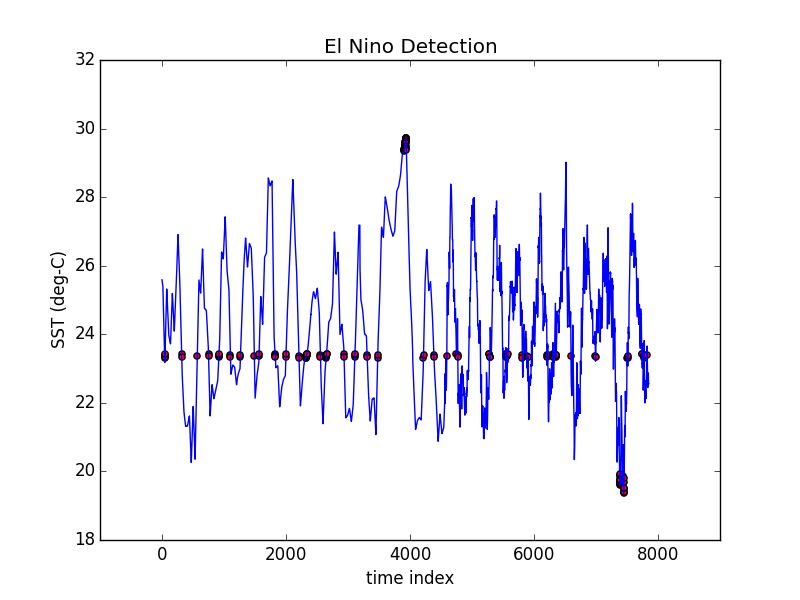
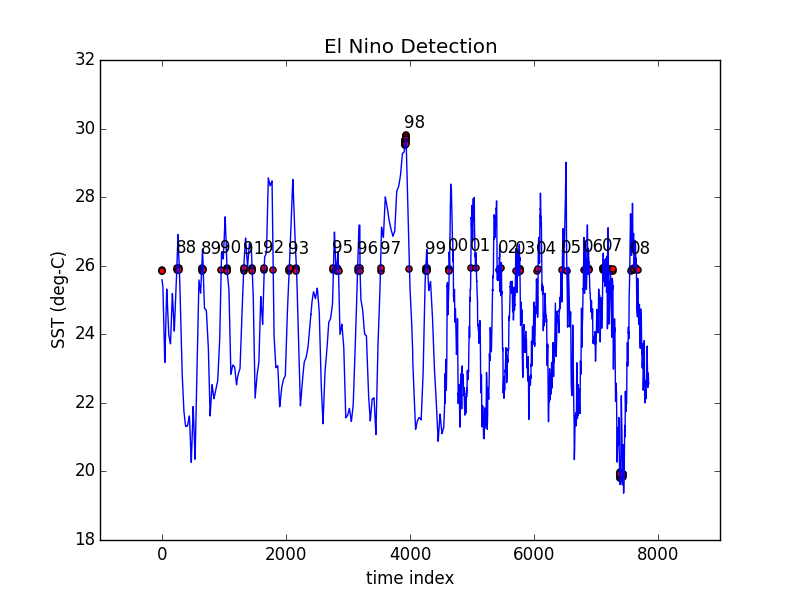
#31: use another location for test and add year label to confirm NOAA's findings.

diff --git a/filters/one_svm.py b/filters/one_svm.py
@@ -17,15 +17,12 @@ This program is adapted from scikit-learn one-class SVM example
 to identify outliers in GSSTF NCEP3 Sea Surface Temperature data
 near South America equator. 
 
-The goal is to identify El-Nino like event. 
+The goal is to identify El-Nino like event [1]. 
 
 The below is the to-do list:
 
-1) Test classifier on another location near training location.
-2) Run multiple classifiers and ensemble the results. 
-3) Change time index label to date string from file name.
-4) Run clustering on the years that are detected as outliers.
-5) Compare the years against NOAA's findings.
+1) Run multiple classifiers and ensemble the results. 
+2) Run clustering on the years that are detected as outliers.
 
 Plot generation is added for quick inspection of learning algorithm's
 behavior.
@@ -52,25 +49,36 @@ file_path = '/scr/GSSTF_NCEP.3/GSSTF_NCEP.3.concat.1x72x144.gzip9.h5'
 file_name = os.path.basename(file_path)
 h5path = '/HDFEOS/GRIDS/NCEP/Data Fields/SST'
 X_outliers = []
+X_outliers2 = []
 vals = []
-
+vals2 = []
 # Put the file name list on the same directory.
 with open('ncep3_list.txt') as f:
     content = f.readlines()
     
+years = []    
+for i in range(len(content)):
+    print(content[i][15:-11])
+    years.append(content[i][15:-11])
+# print years    
 start_time = time.time()
+
 
 # Pacific region near South America.
 lat = 360 # equator
 lon = 300 # -105 longitude = (+ -180 (* 0.25 300))
+lon2 = 290 
 with h5py.File(file_path, 'r') as f:
     
     dset = f[h5path]
 
     for i in range(7850):
         val = dset[i, lat, lon]
+        val2 = dset[i, lat, lon2]        
         vals.append(val)
-        X_outliers.append([val] )
+        vals2.append(val2)        
+        X_outliers.append([val])
+        X_outliers2.append([val2])
 end_time = time.time()
 
 # Generate train data.
@@ -100,25 +108,38 @@ y_pred_test = clf.predict(X_test)
 
 # This should be changed to other location to be more meaningful.
 y_pred_outliers = clf.predict(X_outliers)
+y_pred_outliers2 = clf.predict(X_outliers2)
 n_error_train = y_pred_train[y_pred_train == -1].size
 n_error_test = y_pred_test[y_pred_test == -1].size
 n_error_outliers = y_pred_outliers[y_pred_outliers == -1].size
+n_error_outliers2 = y_pred_outliers2[y_pred_outliers2 == -1].size
 index = np.where(y_pred_outliers == -1)[0]
-for i in index:
-    print(X_outliers[i])
+index2 = np.where(y_pred_outliers2 == -1)[0]
+
+for i in index2:
+    print(X_outliers2[i])
     print(content[i])
+
 print(n_error_train)
 print(n_error_test)
 print(n_error_outliers)
+print(n_error_outliers2)
 
 t = np.arange(0, 7850)
 
 plt.title("El Nino Detection")
 plt.plot(t, vals)
-for i in index:
-    plt.scatter(i, vals[i], c='red')
+year = years[0]
+for i in index2:
+    plt.scatter(i, vals2[i], c='red')
+    if year != years[i]:
+        plt.text(i, vals2[i]+0.5, years[i])
+        year = years[i]
 plt.ylabel('SST (deg-C)')
 plt.xlabel('time index')
 fig = plt.gcf()
 # plt.show()
 fig.savefig("one_svm.png")
+
+# References
+# [1] http://ggweather.com/enso/oni.htm
